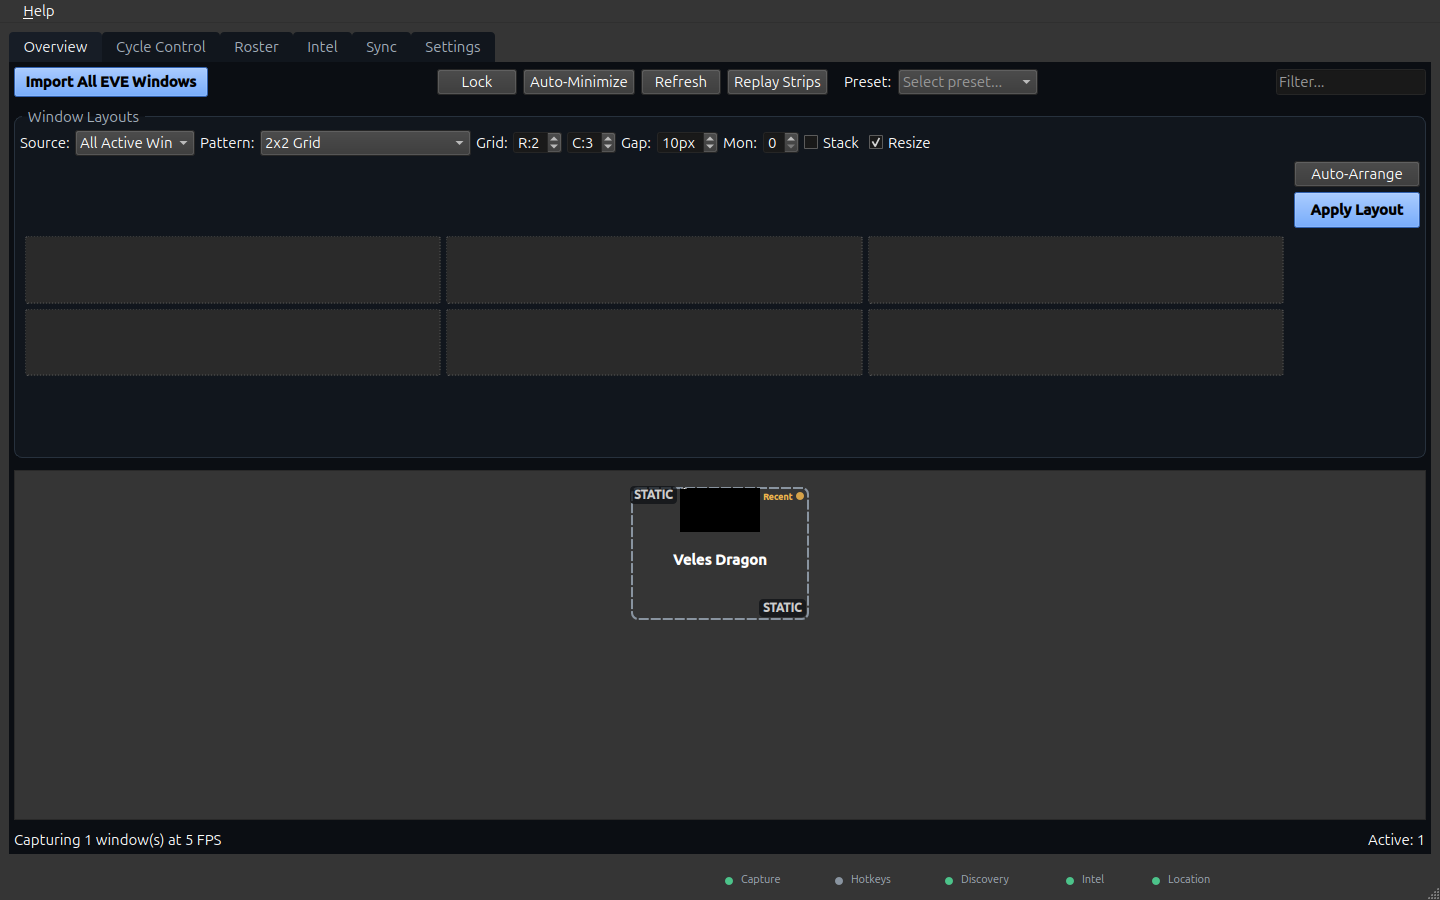
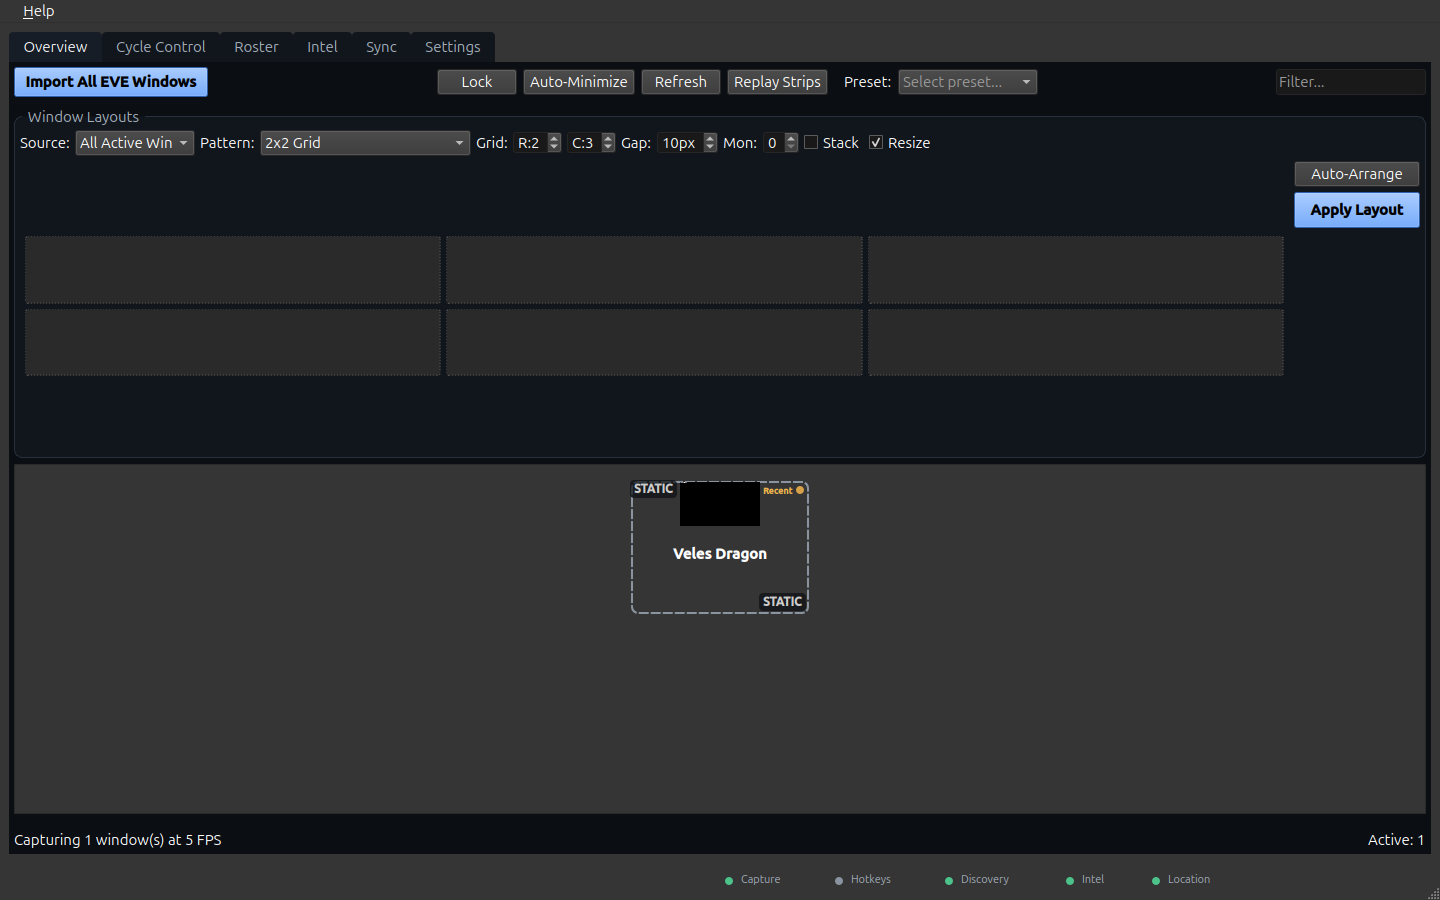
feat(ui): move status dock below preview grid to prioritize operational area
Reposition the character StatusDock from above the preview grid to below
it in the MainTab QVBoxLayout. This gives the live preview area maximum
vertical prominence, aligning with the Operational Truth principle that
the preview grid is the primary product.

Changed region(s): [[0.0, 0.4978, 1.0, 0.6844], [0.0, 0.9022, 1.0, 0.9333]]

diff --git a/src/argus_overview/ui/main_tab.py b/src/argus_overview/ui/main_tab.py
@@ -2212,7 +2212,6 @@ class MainTab(QWidget):
         sm = getattr(self, "settings_manager", None)
         show_dock = sm.get("thumbnails.show_status_dock", True) if sm else True
         self.status_dock.setVisible(show_dock)
-        layout.addWidget(self.status_dock)
 
         # Scroll area for preview frames
         scroll = QScrollArea()
@@ -2227,6 +2226,10 @@ class MainTab(QWidget):
 
         scroll.setWidget(self.preview_container)
         layout.addWidget(scroll)
+
+        # Fleet status rail — placed below the preview grid so the operational
+        # area retains maximum vertical space.
+        layout.addWidget(self.status_dock)
 
         # Status bar
         status_bar = self._create_status_bar()

diff --git a/CHANGELOG.md b/CHANGELOG.md
@@ -37,6 +37,10 @@ instead of hardcoded values.
   and `#3a3a3a` border to `SURFACE` + `BORDER_SUBTLE`. Cell borders and hover
   highlight in the strip `paintEvent` now use design-system tokens
   (`BORDER_SUBTLE`, `INFO`).
+- **Fleet rail positioning** — the character status dock (`StatusDock`) moved from
+  above the preview grid to below it. This prioritizes vertical space for the
+  live preview area, placing operational status in a bottom rail consistent with
+  the Operational Truth principle that the preview grid is the primary product.
 
 ## [3.2.0] - 2026-04-26 — Intel-Aware Edition
 
